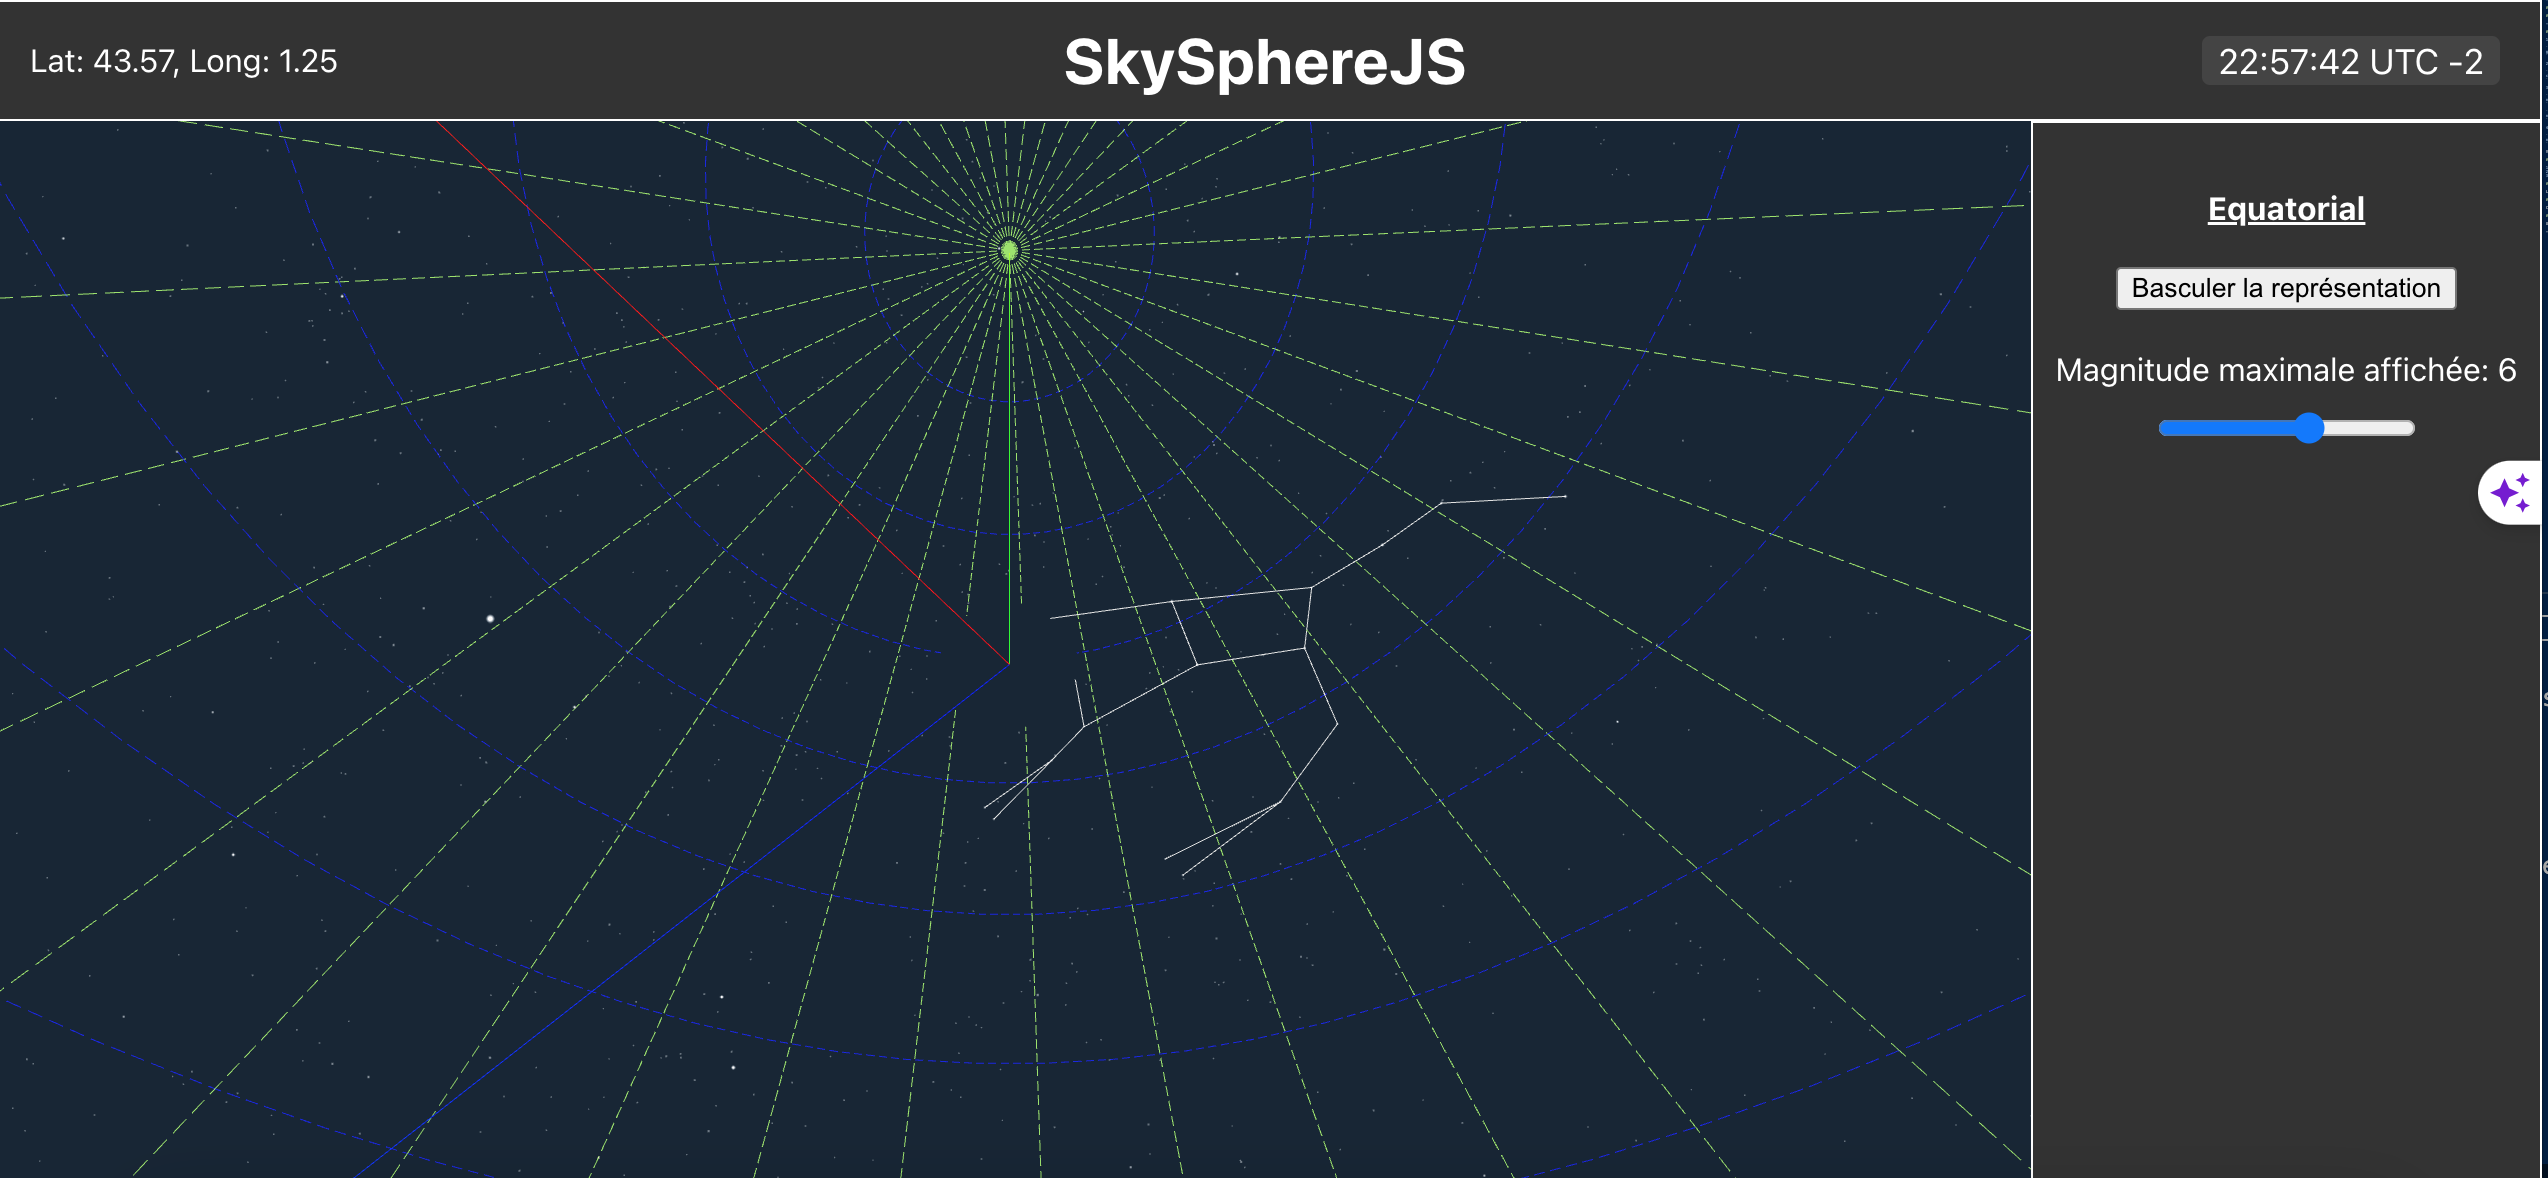
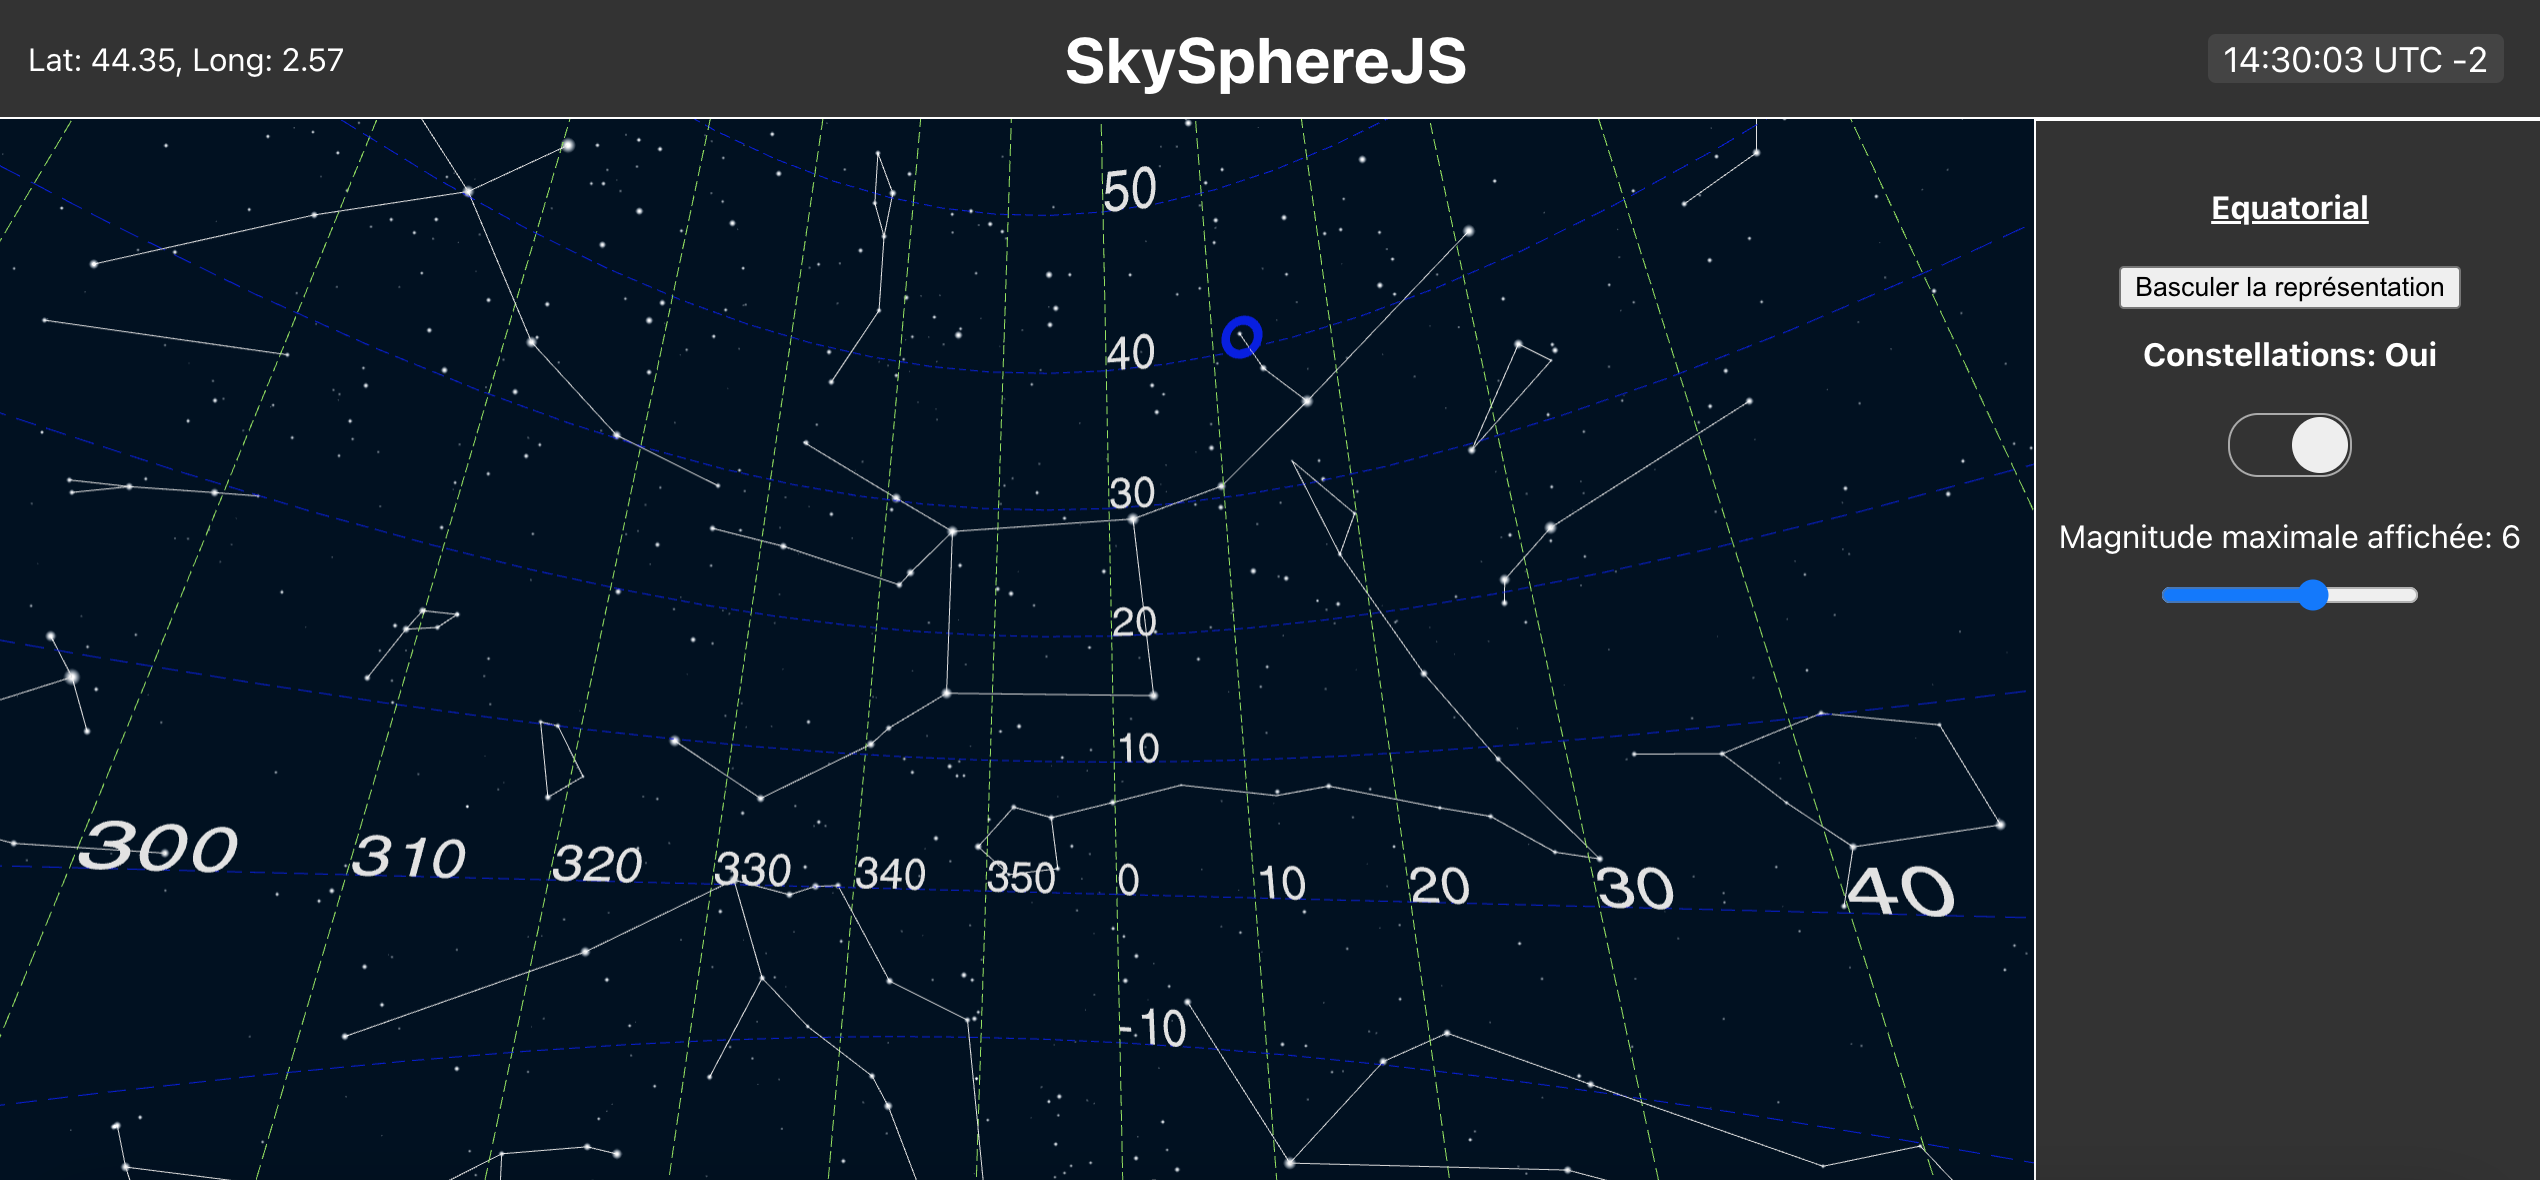
Graduation documentation et repère

diff --git a/src/components/RADECGrid.js b/src/components/RADECGrid.js
@@ -35,30 +35,78 @@ function RADECGrid() {
             geometry.setAttribute('position', new THREE.BufferAttribute(positions, 3));
             return geometry;
         };
+        // Étape 1: Chargez une police
+        const fontLoader = new THREE.FontLoader();
 
-        for (let ra = 0; ra < 360; ra += increment) {
-            const circGeom = createCircleGeometry(1000);
-            
-            // Tourner le cercle de 90 degrés autour de l'axe Z pour le positionner dans le plan YX.
-            circGeom.rotateZ(THREE.MathUtils.degToRad(90));
-            
-            // Ensuite, tourner la géométrie autour de l'axe Y par ra degrés.
-            circGeom.rotateY(THREE.MathUtils.degToRad(ra));
-        
-            const circ = new THREE.Line(circGeom, dashMaterialRA);
-            circ.computeLineDistances();
-            group.current.add(circ);
-        }
-        
+        fontLoader.load('https://threejs.org/examples/fonts/helvetiker_regular.typeface.json', function (font) {
+            for (let ra = 0; ra < 360; ra += increment) {
+                const circGeom = createCircleGeometry(1000);
 
-        for (let dec = -90; dec < 90; dec += increment) {
-            const circGeom = createCircleGeometry(1000*Math.cos(THREE.MathUtils.degToRad(dec) ));
-            const circ = new THREE.Line(circGeom, dashMaterialDEC);
-            circ.translateY(1000*Math.sin(THREE.MathUtils.degToRad(dec)));
-            circ.computeLineDistances();
-            group.current.add(circ);
-        }
+                // Tourner le cercle de 90 degrés autour de l'axe Z pour le positionner dans le plan YZ.
+                circGeom.rotateZ(THREE.MathUtils.degToRad(90));
 
+                // Ensuite, tourner la géométrie autour de l'axe Y par ra degrés.
+                circGeom.rotateY(THREE.MathUtils.degToRad(ra));
+
+                const circ = new THREE.Line(circGeom, dashMaterialRA);
+                circ.computeLineDistances();
+                // Pour le raycasting
+                circ.layers.set(1);
+                group.current.add(circ);
+                // Étape 2: Créez une TextGeometry pour chaque valeur de 'ra'
+                const textGeom = new THREE.TextGeometry(String(ra), {
+                    font: font,
+                    size: 40,  // Ajustez selon vos besoins
+                    height: 5, // Ajustez selon vos besoins
+                    curveSegments: 12,
+                    bevelEnabled: false,
+                });
+
+                // Étape 3: Positionnez le texte sur la sphère
+                const textMaterial = new THREE.MeshBasicMaterial({ color: 0xffffff });  // Couleur du texte, ajustez selon vos besoins
+                const textMesh = new THREE.Mesh(textGeom, textMaterial);
+
+                const radius = 1000;
+                textMesh.position.x = radius * Math.cos(THREE.MathUtils.degToRad(ra));
+                textMesh.position.z = radius * Math.sin(THREE.MathUtils.degToRad(ra));
+                textMesh.position.y = 0;
+
+                textMesh.lookAt(0, 0, 0);  // Faites en sorte que le texte regarde vers le centre de la sphère
+                group.current.add(textMesh);
+            }
+
+
+            for (let dec = -90; dec < 90; dec += increment) {
+                const circGeom = createCircleGeometry(1000 * Math.cos(THREE.MathUtils.degToRad(dec)));
+                const circ = new THREE.Line(circGeom, dashMaterialDEC);
+                circ.translateY(1000 * Math.sin(THREE.MathUtils.degToRad(dec)));
+                circ.computeLineDistances();
+                // Pour le raycasting
+                circ.layers.set(1);
+                group.current.add(circ);
+                // Étape 2: Créez une TextGeometry pour chaque valeur de 'dec'
+                const textGeom = new THREE.TextGeometry(String(dec), {
+                    font: font,
+                    size: 40,  // Taille du texte, ajustez selon vos besoins
+                    height: 5, // Profondeur du texte, ajustez selon vos besoins
+                    curveSegments: 12,
+                    bevelEnabled: false,
+                });
+
+                // Étape 3: Positionnez le texte sur la sphère
+                const textMaterial = new THREE.MeshBasicMaterial({ color: 0xffffff });  // Couleur du texte, ajustez selon vos besoins
+                const textMesh = new THREE.Mesh(textGeom, textMaterial);
+
+                const radius = 1000;
+                textMesh.position.x = radius *  Math.cos(THREE.MathUtils.degToRad(dec));
+                textMesh.position.y = radius * Math.sin(THREE.MathUtils.degToRad(dec));
+                textMesh.position.z = 0
+
+                textMesh.lookAt(0, 0, 0);  // Faites en sorte que le texte regarde vers le centre de la sphère
+                group.current.add(textMesh);
+            }
+
+        })
     }, []);
 
     return <group ref={group} />;

diff --git a/src/CameraControls.js b/src/CameraControls.js
@@ -20,14 +20,22 @@ function CameraControls() {
       const deltaX = -(event.offsetX - previousMousePosition.x) * sensitivity;
       const deltaY = -(event.offsetY - previousMousePosition.y) * sensitivity;
 
-      const horizontalRotation = new THREE.Quaternion().setFromAxisAngle(new THREE.Vector3(0, 1, 0), deltaX);
-      const verticalRotation = new THREE.Quaternion().setFromAxisAngle(new THREE.Vector3(1, 0, 0), deltaY);
-
-      camera.quaternion.multiply(horizontalRotation);
-      camera.quaternion.multiply(verticalRotation);
+      // Vérifier quelle rotation (horizontale ou verticale) est la plus grande
+      if (Math.abs(deltaX) > Math.abs(deltaY)) {
+        // Rotation horizontale seulement
+        console.log("Rotation horizontale")
+        const horizontalRotation = new THREE.Quaternion().setFromAxisAngle(new THREE.Vector3(0, 1, 0), deltaX);
+        camera.quaternion.multiply(horizontalRotation);
+      } else {
+        // Rotation verticale seulement
+        console.log("Rotation verticale")
+        const verticalRotation = new THREE.Quaternion().setFromAxisAngle(new THREE.Vector3(1, 0, 0), deltaY);
+        camera.quaternion.multiply(verticalRotation);
+      }
 
       setPreviousMousePosition({ x: event.offsetX, y: event.offsetY });
     }
+
 
     const canvas = gl.domElement;
     canvas.addEventListener('mousemove', handleMouseMove);
@@ -55,8 +63,12 @@ function CameraControls() {
   }, [gl.domElement, camera]);
 
 
-  
+
   useEffect(() => {
+
+    camera.layers.enable(0);  // permet à la caméra de voir la couche 0
+    camera.layers.enable(1);  // permet à la caméra de voir la couche 1
+
     function handleKeyDown(event) {
       const rotationAngle = 0.05;  // Ajustez cette valeur pour des rotations plus rapides ou plus lentes
 
@@ -109,6 +121,7 @@ function CameraControls() {
 
   useEffect(() => {
     camera.position.set(0, 0, 0);
+    camera.lookAt(new THREE.Vector3(1, 0, 0));
     camera.updateProjectionMatrix();
   }, []);
 

diff --git a/src/components/Stars.js b/src/components/Stars.js
@@ -16,6 +16,7 @@ function Stars({ rotation }) {
     const starGroupRef = useRef(new THREE.Group());
     const highlightedStarRef = useRef(null);
     const raycaster = new THREE.Raycaster();
+    raycaster.layers.set(0); 
     raycaster.linePrecision = 100;
     const mouse = new THREE.Vector2();
     const rayHelperRef = useRef(null);
@@ -31,10 +32,17 @@ function Stars({ rotation }) {
 
     function addDebugRay() {
         if (!rayHelperRef.current) {
+            console.log("Recréation du rayHelper");
             rayHelperRef.current = new THREE.ArrowHelper(raycaster.ray.direction, raycaster.ray.origin, 1050, 0xff0000);
             scene.add(rayHelperRef.current);
         }
+        else  {
+            console.log("Mise à jour de la direction du RayHelper");
+            rayHelperRef.current.setDirection(raycaster.ray.direction);
+            rayHelperRef.current.position.copy(raycaster.ray.origin);
+        }
     }
+    
 
     function removeDebugRay() {
         if (rayHelperRef.current) {
@@ -195,6 +203,7 @@ function Stars({ rotation }) {
 
     useEffect(() => {
         function onClick(event) {
+            console.log("Clic event ",event)
             mouse.x = (event.offsetX / gl.domElement.clientWidth) * 2 - 1;
             mouse.y = -(event.offsetY / gl.domElement.clientHeight) * 2 + 1;
             raycaster.setFromCamera(mouse, camera);

diff --git a/src/components/SkyDome.js b/src/components/SkyDome.js
@@ -33,7 +33,7 @@ function SkyDome() {
             <RADECGrid />
 
             {/* Affiche les aides pour les axes. */}
-            <axesHelper args={[500]} />
+            <axesHelper args={[1000]} />
 
             {/* Éclaire la scène avec une lumière ambiante. */}
             <ambientLight intensity={0.5} />

diff --git a/README.md b/README.md
@@ -58,9 +58,22 @@ Votre application devrait maintenant être accessible à l'adresse `http://local
 2. Utilisez le menu latéral pour basculer entre les représentations équatoriales et horizontales.
 3. Observez le ciel étoilé se déplacer en temps réel.
 
+
+## Appendice Technique: Repère Three.js
+
+Dans le cadre du projet SkySphereJS, nous utilisons le repère standard de Three.js pour la représentation tridimensionnelle. Dans ce repère :
+
+- L'axe \( X \) (rouge) va vers la droite.
+- L'axe \( Y \) (vert) va vers le haut.
+- L'axe \( Z \) (bleu) vient vers nous.
+
+![Repère Three.js](./doc/repere.png)
+
+**Note importante :** Initialement, le regard (ou la caméra) est dirigé vers les \( X \) croissants. C'est-à-dire que lorsque vous lancez l'application, vous regardez dans la direction où les valeurs de \( X \) augmentent.
+
 ## Contributions
 
-Les contributions sont les bienvenues ! Veuillez ouvrir une issue ou soumettre une pull request.
+Les contributions sont les bienvenues ! Veuillez ouvrir une issue ou soumettre une pull request ou me contacter via mon adresse email: boissiebruno@gmail.com
 
 ## Licence
 
